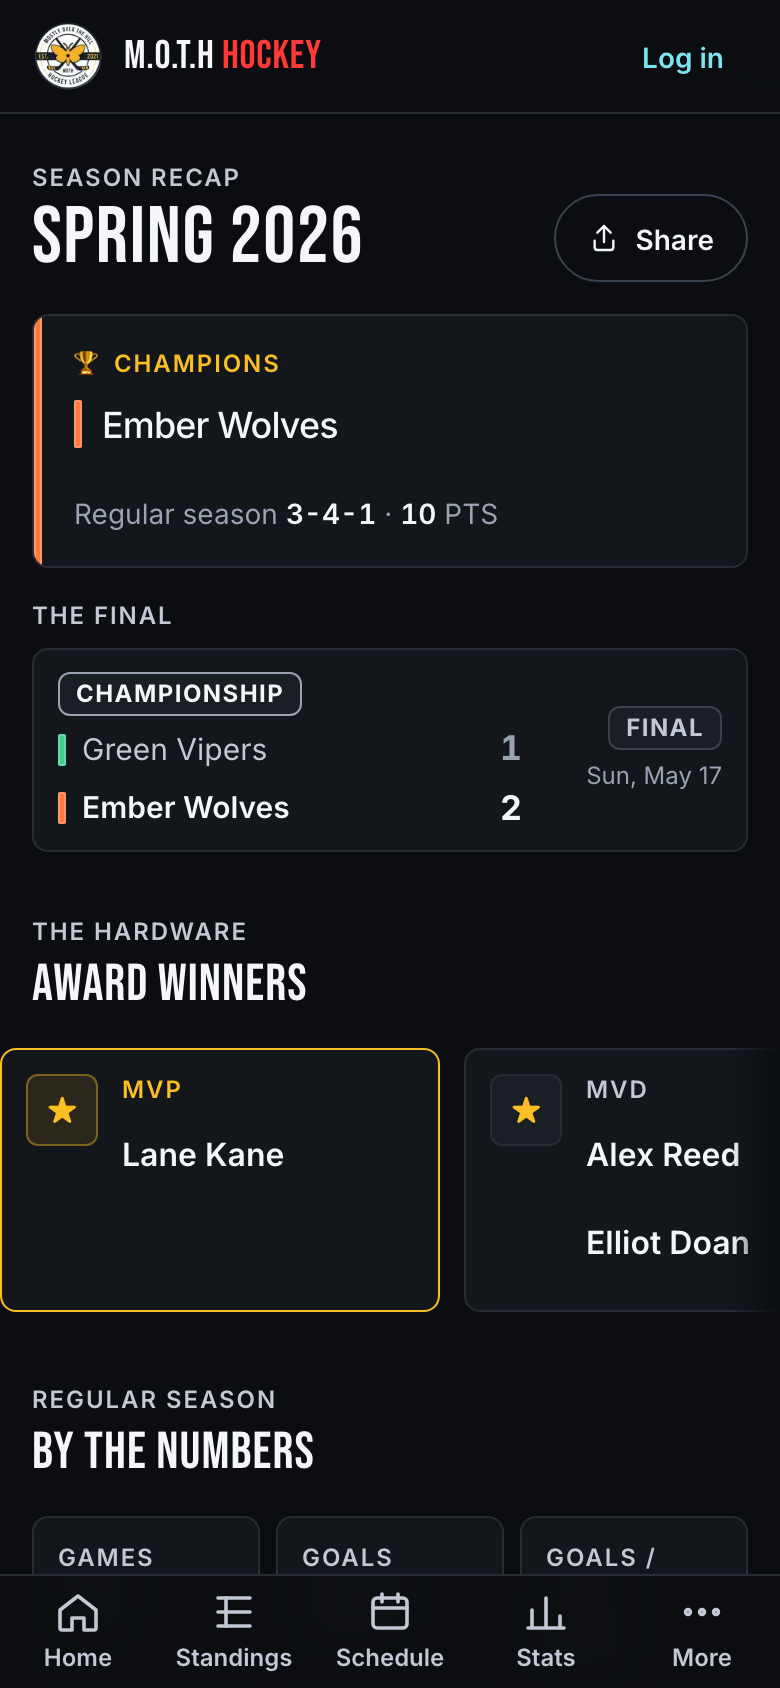
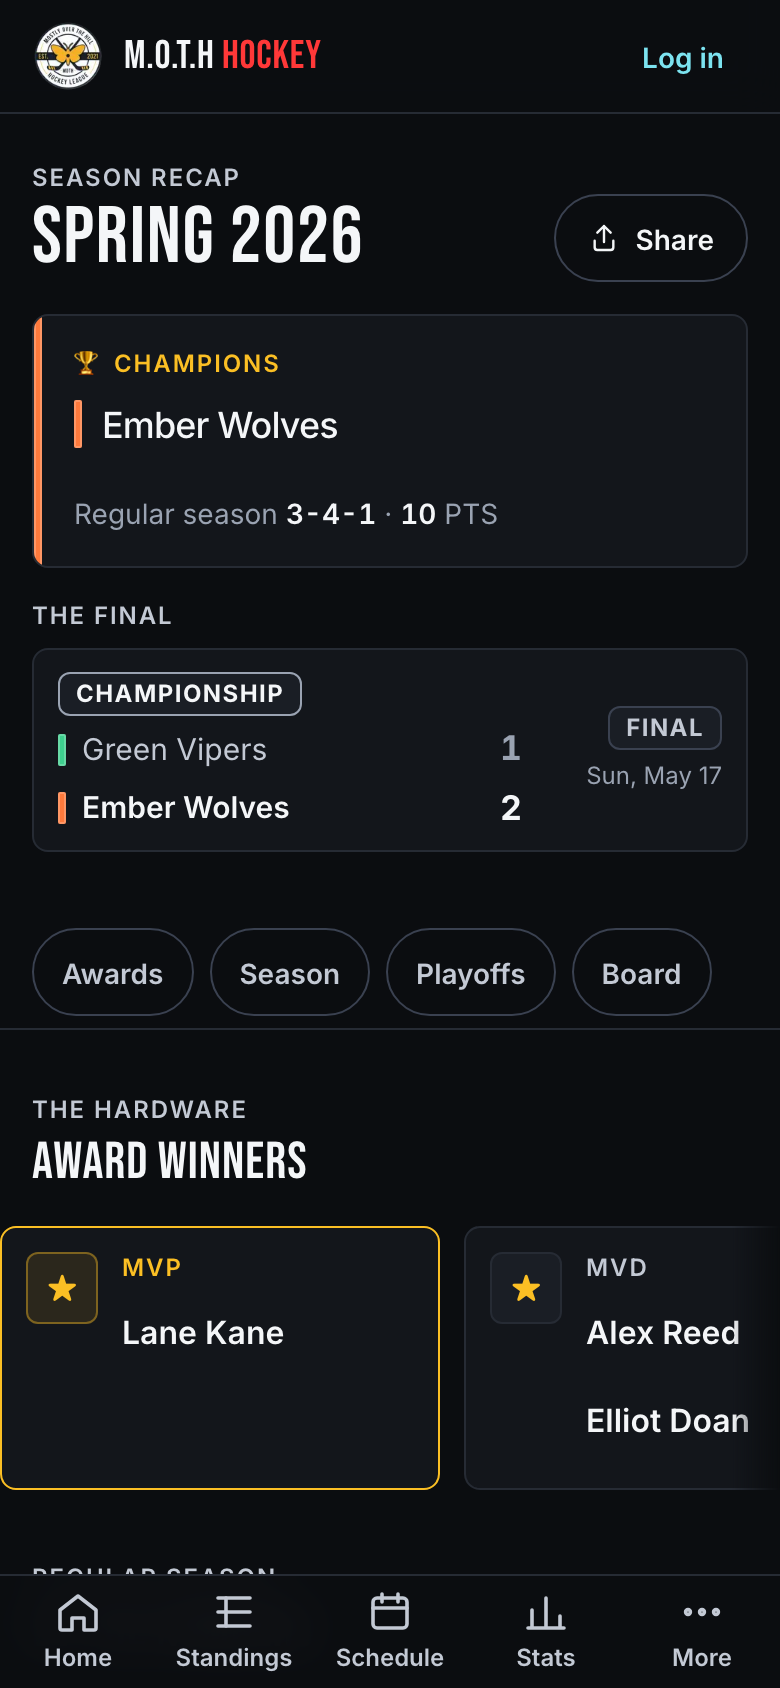
docs: season recap AI report and media gallery
README features, admin table, stack and roadmap; ARCHITECTURE layout, data
flow and routes; LOCAL-TESTING and .env.example get BLOB_READ_WRITE_TOKEN.
README screenshots retaken from a production build (no dev badge).

diff --git a/docs/ARCHITECTURE.md b/docs/ARCHITECTURE.md
@@ -22,8 +22,11 @@ app/                  App Router routes (see Routes below)
   <route>/actions.ts  server actions ("use server") for that route's mutations
   auth/confirm/       magic-link landing page; POSTs to verify the token
   auth/callback/route.ts  fallback: magic-link code → session exchange
-  api/                route handlers: cron/write-ups (Vercel cron), hooks/new-user (DB webhook)
+  api/                route handlers: cron/write-ups (Vercel cron), hooks/new-user (DB webhook),
+                      media/upload (admin-only Blob upload tokens)
+  seasons/[slug]/recap/  recap page + summary-actions.ts (AI report) + media-actions.ts (gallery)
 components/           shared components (mostly client/presentational)
+  recap/              season recap sections: summary admin, jump bar, gallery + lightbox, uploader
 lib/
   queries.ts          server-side read helpers (typed Supabase selects)
   auth.ts             session + role gating (getAuthSession / requireRole / …)
@@ -36,7 +39,10 @@ lib/
   seasons.ts          season identity/lifecycle (recap target, slugs)
   season-schedule.ts  round-robin schedule generation
   season-finalize.ts  season totals, champion, proposed award winners
-  season-recap.ts     season recap computations
+  season-recap.ts     season recap computations (moments, leaders, jump links)
+  recap-summary/      AI season report: facts, prompt, output checks, admin controls
+  media.ts            recap media rules: paths, types/limits, URL checks, reorder, lightbox nav
+  storage.ts          the only server touchpoint with Vercel Blob (head, delete, upload tokens)
   lineup-availability.ts  writes scorekeeper check-in back to game_availability
   paginate.ts         page slicing helper
   *.test.ts           `bun test` specs for the pure modules
@@ -60,6 +66,15 @@ docs/                 this folder
   (`"use server"`). Examples: `app/score/[gameId]/actions.ts`,
   `app/admin/seasons/actions.ts`. Actions call `requireRole(...)` first, then write
   via the server client; RLS is the second line of defense in Postgres.
+- **Season recap AI report:** an admin server action builds a facts JSON from the
+  page's own data (`lib/recap-summary/facts.ts`), calls OpenRouter, and writes a
+  draft to `season_recap_drafts`. Publishing copies it to `season_recaps`, the only
+  table the public can read. The page itself is computed live on every request.
+- **Recap media:** the browser uploads straight to Vercel Blob (`upload()` from
+  `@vercel/blob/client`), using a token from `/api/media/upload` that is issued only
+  to admins and only for `seasons/{slug}/` (`dev/seasons/{slug}/` outside
+  production). The browser then calls `recordSeasonMedia`, which checks the URL and
+  the blob's real type/size before inserting the `season_media` row.
 - **Interactive UI** is isolated to client components (`"use client"`): e.g.
   `components/LiveScoring.tsx`, `components/RosterCheckIn.tsx`,
   `components/StatsExplorer.tsx`, `app/admin/seasons/color-swatches.tsx`.
@@ -123,10 +138,11 @@ Role-gated (enforced by `requireRole` + RLS):
 | `/score`, `/score/[gameId]`, `/score/[gameId]/roster` | `admin` or `scorekeeper` |
 | `/captains/contacts` | `admin` or `team_captain` |
 
-Route handlers (no session; shared-secret auth):
+Route handlers:
 
 | Route | Auth |
 | --- | --- |
+| `/api/media/upload` | admin session (issues Vercel Blob client-upload tokens) |
 | `/api/cron/write-ups` | `Authorization: Bearer $CRON_SECRET` (Vercel cron, `vercel.json`) |
 | `/api/hooks/new-user` | `x-webhook-secret: $NEW_USER_WEBHOOK_SECRET` (Supabase DB webhook) |
 

diff --git a/README.md b/README.md
@@ -34,7 +34,7 @@ stored as aggregates.
 | **Game pages**      | Box score with goal and penalty-shot log (OT and shootout), a projected line and AI-written preview before the game, and an AI recap after it. |
 | **Player profiles** | Career stats per season plus all-time totals, interactive award badges, and captain history.     |
 | **Stats**           | Season leaders (points, goals, assists, penalties, goalies; subs don't count toward leaders) and paginated all-time stats. |
-| **Season recap**    | `/seasons/<slug>/recap` (and `/recap` for the latest): champion, awards, final standings, leaders, notable moments, and a separate playoffs section. Shareable, with a link-preview image. |
+| **Season recap**    | `/seasons/<slug>/recap` (and `/recap` for the latest): champion, an AI-written season report, awards, final standings, leaders, notable moments, a separate playoffs section, and a photo/video gallery. Jump links at the top; shareable, with a link-preview image. |
 | **Locker Room**     | Season message board on the home page, plus per-game threads.                                    |
 | **Content pages**   | Markdown-powered rules, FAQ, and league info, editable by admins.                                |
 
@@ -71,6 +71,7 @@ stored as aggregates.
 | **Finalize a season**  | Lock in season totals and awards once the playoffs end; the season recap links from here. |
 | **Content & awards**   | Edit the markdown content pages and assign per-season player awards.          |
 | **AI write-ups**       | Edit or hide the AI-written game previews and recaps.                         |
+| **Season recap**       | Generate, edit and publish the AI season report; upload, caption, reorder and delete gallery photos, videos and PDFs (stored in Vercel Blob). |
 | **Users & roles**      | Link signups to players and assign roles (scorekeeper, admin, etc.).          |
 | **Edit finalized games** | Correct events on games scorekeepers have already locked.                    |
 
@@ -93,7 +94,8 @@ Contact info (email/phone) is never exposed on public pages; RLS limits reads to
 - **TypeScript** — path alias `@/*` → repo root.
 - **Tailwind v4** — configured in `app/globals.css`, not `tailwind.config.*`.
 - **Supabase** — Postgres + Auth.
-- **OpenRouter** — LLM calls for the AI game previews and recaps.
+- **OpenRouter** — LLM calls for the AI game previews, recaps and season reports.
+- **Vercel Blob** — season recap photos, videos and PDFs (direct browser uploads).
 - **bun** — package manager and runtime.
 - Deployed on **Vercel + Supabase cloud** (free tiers, ~$0/month).
 
@@ -173,13 +175,11 @@ The MVP is live in production. Releases are tagged on GitHub; the original build
 
 **Shipped:** public site, magic-link signup + roles, admin CRUD, full scorekeeper scoring, derived
 stats/standings, game previews with projected lines, AI game write-ups, availability and subs,
-the Locker Room board, season finalization with all-time stats, the season recap page, and the
-mobile-first layout with a bottom tab bar.
+the Locker Room board, season finalization with all-time stats, the season recap page with an
+AI season report and a photo/video gallery, and the mobile-first layout with a bottom tab bar.
 
 **Next:**
 
-- Season recap AI summary — an admin-generated, editable season write-up on the recap page.
-- Season recap media gallery — admin-uploaded photos and video.
 - Realtime box score — `/games/[id]` updating live from scorekeeper input.
 
 ## Documentation

diff --git a/docs/LOCAL-TESTING.md b/docs/LOCAL-TESTING.md
@@ -174,10 +174,15 @@ Copy `.env.example` to `.env.local` and fill from `supabase status`:
 | `NEXT_PUBLIC_SUPABASE_PUBLISHABLE_KEY` | `Publishable` key                                 |
 | `NEXT_PUBLIC_SITE_URL`               | Optional; base URL for OpenGraph links              |
 | `SUPABASE_SECRET_KEY`                | `Secret` key (server-only; write-ups cron/finalize) |
-| `OPENROUTER_API_KEY`                 | Your OpenRouter key (AI write-ups only)             |
+| `OPENROUTER_API_KEY`                 | Your OpenRouter key (AI write-ups and season reports) |
 | `WRITE_UP_MODEL`                     | Optional; primary write-up model                    |
 | `WRITE_UP_FALLBACK_MODEL`            | Optional; fallback write-up model                   |
 | `CRON_SECRET`                        | Any string; `Authorization: Bearer` for the cron    |
+| `BLOB_READ_WRITE_TOKEN`              | Optional; recap photo uploads (from Vercel or `vercel env pull`) |
+
+`BLOB_READ_WRITE_TOKEN` points at the shared Blob store, so local and preview
+uploads are kept under `dev/seasons/…` and never mix with production media.
+Without it the recap uploader is disabled; the gallery still renders rows that exist.
 
 The signup-email (`NEW_USER_WEBHOOK_SECRET`, `ADMIN_NOTIFY_EMAIL`, `SMTP_*`) and
 "Scripts" variables in `.env.example` aren't needed for local development.
